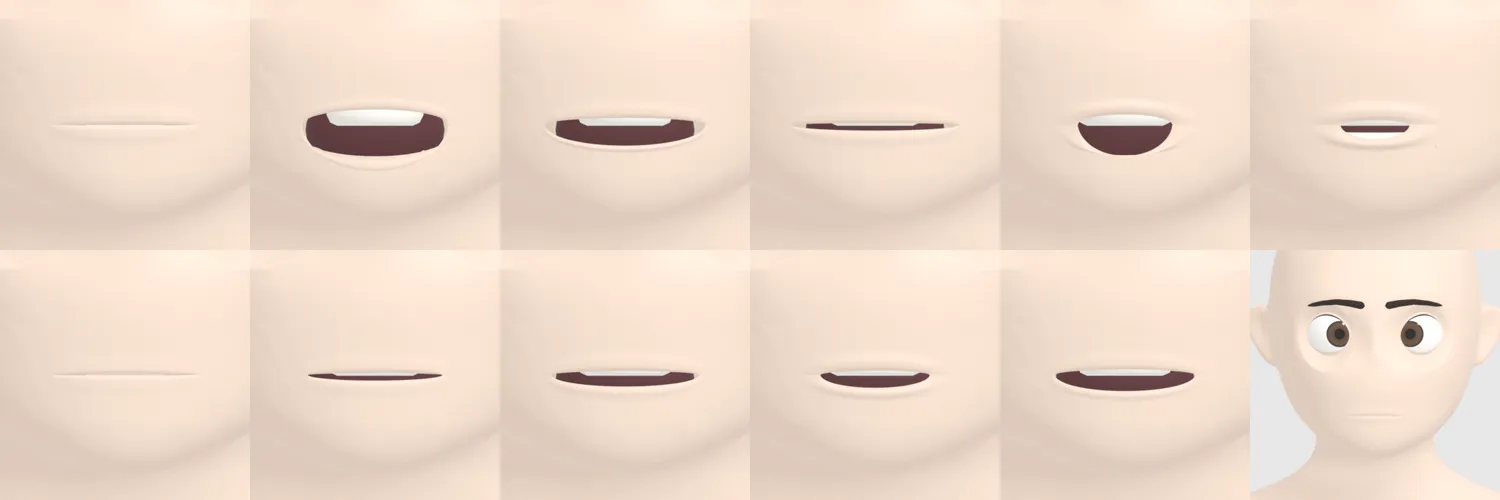
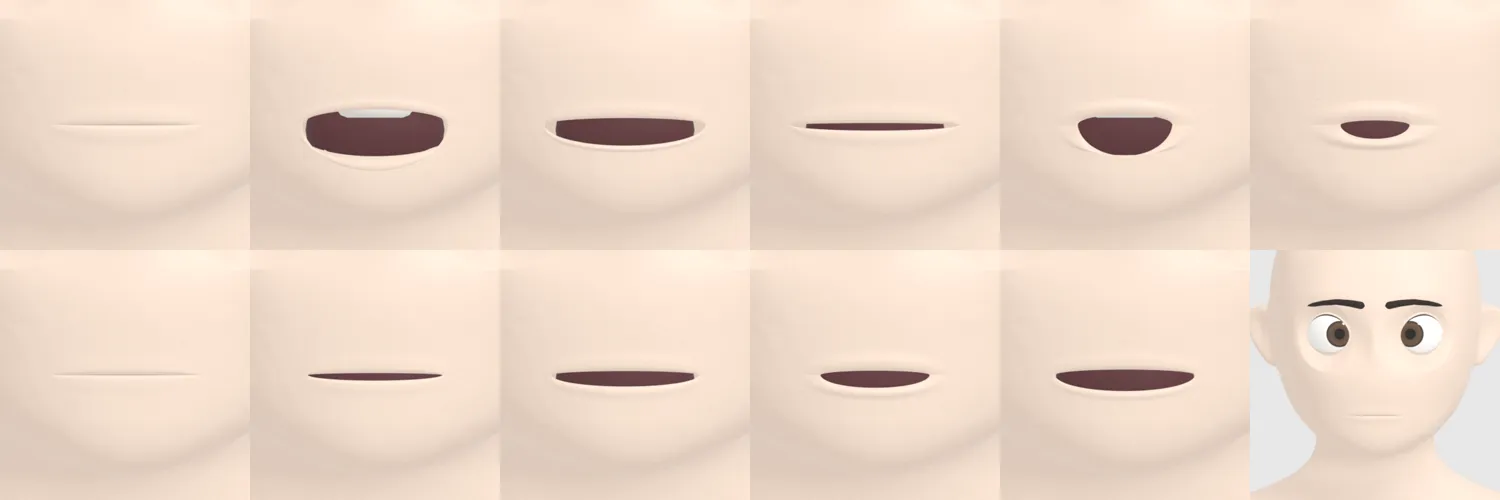
fix(nam-003): bớt trắng trong khoang miệng — răng hẹp, lùi sâu, cao hơn, màu ngà; chỉ lộ mép răng khi há to

diff --git a/assets/nhan-vat-3d/nam-003/mieng_nam003.py b/assets/nhan-vat-3d/nam-003/mieng_nam003.py
@@ -117,14 +117,14 @@ def tao_mieng(sc, arm, body, moc, p):
     # khoang miệng, răng, lưỡi, jaw
     _jaw(arm, moc)
     sau = mo + np.array([0, 0.004, 0])                              # mặt trước khoang/răng nằm sau môi
-    m_toi = M3._mat('KhoangMieng', (0.10, 0.025, 0.03), 0.7); m_rang = M3._mat('Rang', (0.92, 0.90, 0.85), 0.3); m_luoi = M3._mat('Luoi', (0.62, 0.22, 0.22), 0.6)
+    m_toi = M3._mat('KhoangMieng', (0.10, 0.025, 0.03), 0.7); m_rang = M3._mat('Rang', (0.78, 0.75, 0.70), 0.45); m_luoi = M3._mat('Luoi', (0.62, 0.22, 0.22), 0.6)
     def tui():
         bpy.ops.mesh.primitive_uv_sphere_add(segments=32, ring_count=16, radius=1, location=tuple(sau + np.array([0, 0.026, -0.002])))
         o = bpy.context.object; o.scale = (A * 1.10, 0.017, 0.018); bpy.ops.object.transform_apply(scale=True)
         bpy.ops.object.mode_set(mode='EDIT'); bpy.ops.mesh.flip_normals(); bpy.ops.object.mode_set(mode='OBJECT'); return o
     def rang(dz, ten):
-        bpy.ops.mesh.primitive_torus_add(major_radius=A * 0.68, minor_radius=0.0028, major_segments=48, minor_segments=8,
-                                         location=tuple(sau + np.array([0, A * 0.68 + 0.003, dz])))
+        bpy.ops.mesh.primitive_torus_add(major_radius=A * 0.56, minor_radius=0.0024, major_segments=48, minor_segments=8,
+                                         location=tuple(sau + np.array([0, A * 0.56 + 0.006, dz])))   # lùi sâu, hẹp: chỉ lộ mép răng khi há
         o = bpy.context.object; o.scale = (1, 1, 1.6); bpy.ops.object.transform_apply(scale=True)
         bm2 = bmesh.new(); bm2.from_mesh(o.data)
         bmesh.ops.delete(bm2, geom=[v for v in bm2.verts if v.co.y > -A * 0.25], context='VERTS'); bm2.to_mesh(o.data); bm2.free()
@@ -132,8 +132,8 @@ def tao_mieng(sc, arm, body, moc, p):
     def luoi():
         bpy.ops.mesh.primitive_uv_sphere_add(segments=24, ring_count=12, radius=1, location=tuple(sau + np.array([0, 0.016, -0.009])))
         o = bpy.context.object; o.scale = (A * 0.62, 0.016, 0.0045); bpy.ops.object.transform_apply(scale=True); return o
-    trong = [_vat(sc, arm, 'KhoangMieng', tui, m_toi, 'Head'), _vat(sc, arm, 'RangTren', lambda: rang(0.0042, 't'), m_rang, 'Head'),
-             _vat(sc, arm, 'RangDuoi', lambda: rang(-0.0050, 'd'), m_rang, 'jaw'), _vat(sc, arm, 'Luoi', luoi, m_luoi, 'jaw')]
+    trong = [_vat(sc, arm, 'KhoangMieng', tui, m_toi, 'Head'), _vat(sc, arm, 'RangTren', lambda: rang(0.0068, 't'), m_rang, 'Head'),
+             _vat(sc, arm, 'RangDuoi', lambda: rang(-0.0075, 'd'), m_rang, 'jaw'), _vat(sc, arm, 'Luoi', luoi, m_luoi, 'jaw')]
     print(f'  miệng: rộng {2 * A * 1000:.0f} mm, mép lỗ {len(tren_ch) + len(duoi_ch) - 2} đỉnh, hàn {n0 - len(body.data.vertices)} đỉnh')
     return trong
 
